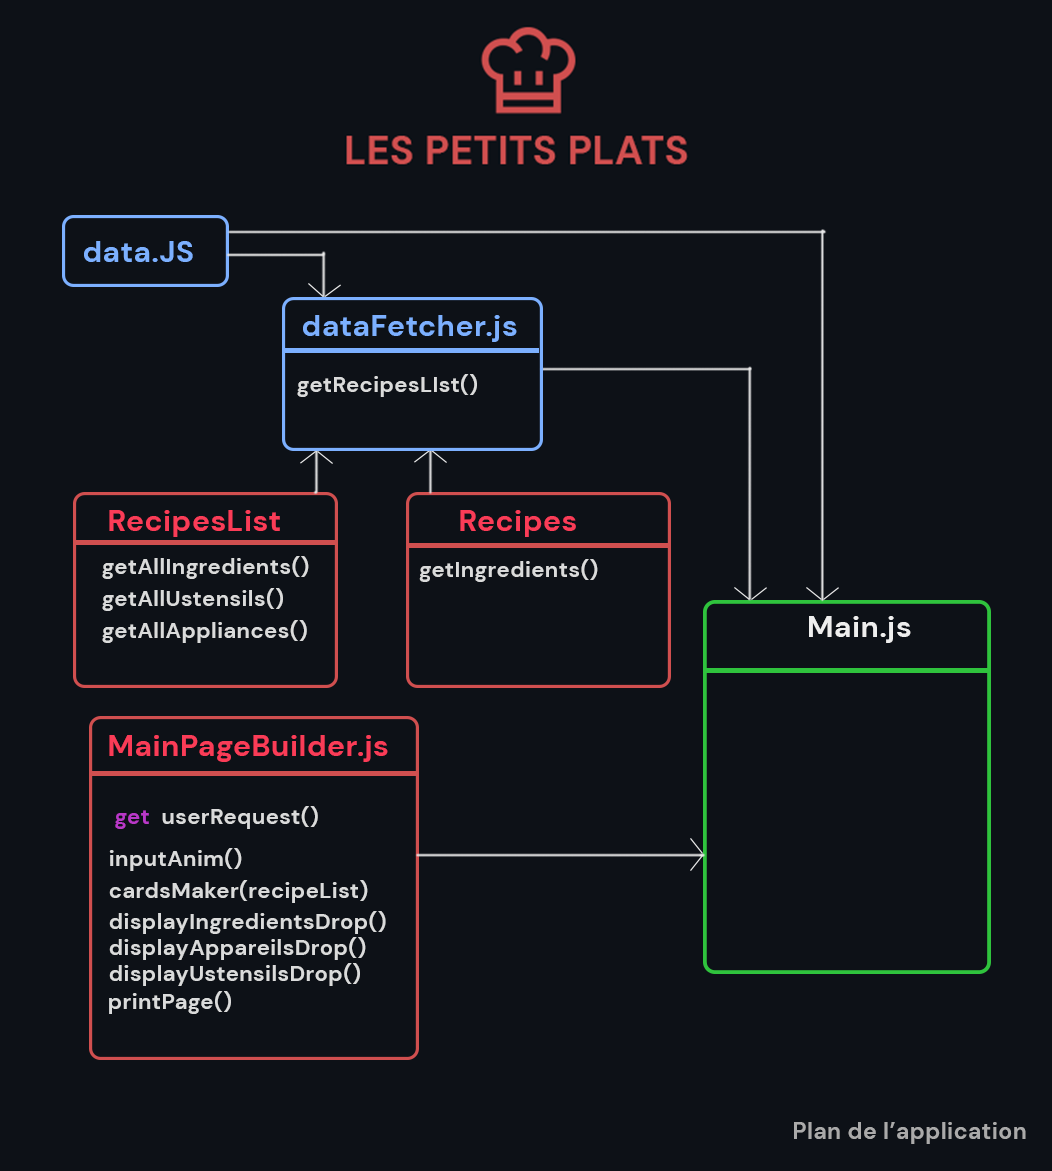
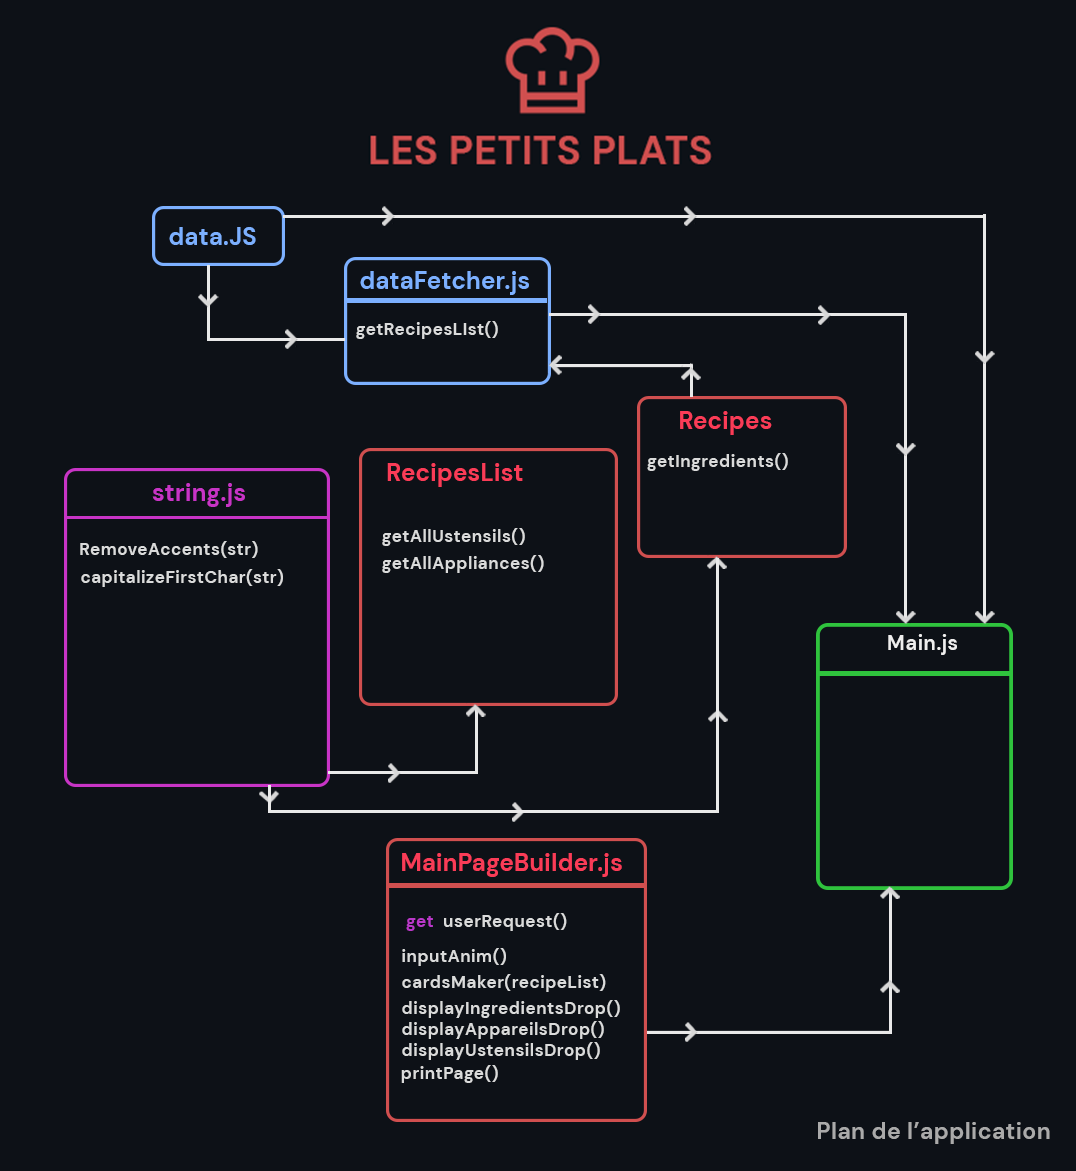
ajout module methodes str

diff --git a/APP/JAVASCRIPT/class/mainPageBuilder.js b/APP/JAVASCRIPT/class/mainPageBuilder.js
@@ -9,7 +9,7 @@ export class MainPageBuilder {
       console.log({ userInput: searchBarInput.value.trim() });
     });
     return {
-      userInput: searchBarInput.value.trim(),
+      userInput: searchBarInput.value.trim().split(" "),
     };
   }
 
@@ -88,10 +88,15 @@ export class MainPageBuilder {
       li.textContent = ingr;
       li.classList.add("ingr-item");
       ul.append(li);
+      li.addEventListener("click", (e) => {
+        console.log(`${ingr}`);
+        li.classList.toggle("tag-selected");
+      });
     });
 
     btnIngredients.addEventListener("click", (e) => {
       dropIngredient.style.display = "flex";
+
       btnIngredients.style.display = "none";
 
       closeIngredient.addEventListener("click", () => {
@@ -136,6 +141,7 @@ export class MainPageBuilder {
       const li = document.createElement("li");
       li.innerHTML = ust;
       li.classList.add("ust-item");
+
       ul.append(li);
     });
 

diff --git a/APP/JAVASCRIPT/class/RecipesList.js b/APP/JAVASCRIPT/class/RecipesList.js
@@ -1,3 +1,8 @@
+import {
+  keepOnlyLettersAndRemoveAccents,
+  capitalizeFirstChar,
+} from "../utils/string.js";
+
 export class RecipesList {
   constructor(recipes) {
     this.recipes = recipes;
@@ -13,6 +18,20 @@ export class RecipesList {
     return new Set(AllIngredients);
   }
 
+  getAllAppliance() {
+    const appliances = new Set();
+
+    for (let recipe of this.recipes) {
+      appliances.add(capitalizeFirstChar(recipe.appliance));
+    }
+
+    return [...appliances];
+  }
+
+  filterRecipe(inp) {
+    console.log(inp);
+  }
+
   getAllUstensils() {
     let AllUstensils = [];
     this.recipes.forEach((recipe) => {
@@ -21,12 +40,5 @@ export class RecipesList {
       }
     });
     return new Set(AllUstensils);
-  }
-  getAllAppliance() {
-    let AllAppliance = [];
-    this.recipes.forEach((recipe) => {
-      AllAppliance.push(recipe.appliance);
-    });
-    return new Set(AllAppliance);
   }
 }

diff --git a/APP/JAVASCRIPT/utils/string.js b/APP/JAVASCRIPT/utils/string.js
@@ -1,0 +1,19 @@
+// retourne la chaine de caractére entrer en paramétres sans accent et en minuscule
+export function keepOnlyLettersAndRemoveAccents(string) {
+  return string
+    .toLowerCase()
+    .replace(/[.,;:!\?\*"()°]/g, "")
+    .replace(/[']/g, " ")
+    .replace(/[\d]/g, "")
+    .replace(/[àäâ]/g, "a")
+    .replace(/[ç]/g, "c")
+    .replace(/[éèêë]/g, "e")
+    .replace(/[îï]/g, "i")
+    .replace(/[ôö]/g, "o")
+    .replace(/[ùûû]/g, "u");
+}
+
+// retourne la chaine de caractére entrer en paramétres avec la premiere letres en majuscule
+export function capitalizeFirstChar(str) {
+  return str[0].toUpperCase() + str.slice(1);
+}

diff --git a/APP/JAVASCRIPT/class/Recipes.js b/APP/JAVASCRIPT/class/Recipes.js
@@ -1,3 +1,5 @@
+import { keepOnlyLettersAndRemoveAccents } from "../utils/string.js";
+
 export class Recipe {
   constructor(
     id,
@@ -19,7 +21,11 @@ export class Recipe {
     this.ustensils = ustensils;
   }
 
-  getIngredients() {
-    console.log(...this.ingredients);
+  get applianceNameWithoutAccent() {
+    return keepOnlyLettersAndRemoveAccents(this.appliance);
+  }
+
+  get nameWithoutAccent() {
+    return keepOnlyLettersAndRemoveAccents(this.name);
   }
 }

diff --git a/APP/JAVASCRIPT/main.js b/APP/JAVASCRIPT/main.js
@@ -12,4 +12,14 @@ new MainPageBuilder(recipesList).printPage(
   recipesList.getAllUstensils(recipesList)
 );
 
-console.log(userInput);
+// console.log(userInput);
+console.log(recipesList.filterRecipe(userInput));
+
+let ingrItems = document.querySelectorAll(".ingr-item");
+let tagSelected = [];
+ingrItems.forEach((el) =>
+  el.addEventListener("click", () => {
+    tagSelected.push(el.textContent);
+    console.log(tagSelected);
+  })
+);

diff --git a/APP/SASS/main.css b/APP/SASS/main.css
@@ -485,6 +485,11 @@ li {
   font-size: 2rem;
 }
 
+.tag-selected {
+  color: #57a6b3;
+  font-style: italic;
+}
+
 header {
   color: #d04f4f;
   text-align: center;

diff --git a/APP/SASS/components/_tags.scss b/APP/SASS/components/_tags.scss
@@ -29,3 +29,8 @@
     }
   }
 }
+
+.tag-selected {
+  color: rgb(87, 166, 179);
+  font-style: italic;
+}
